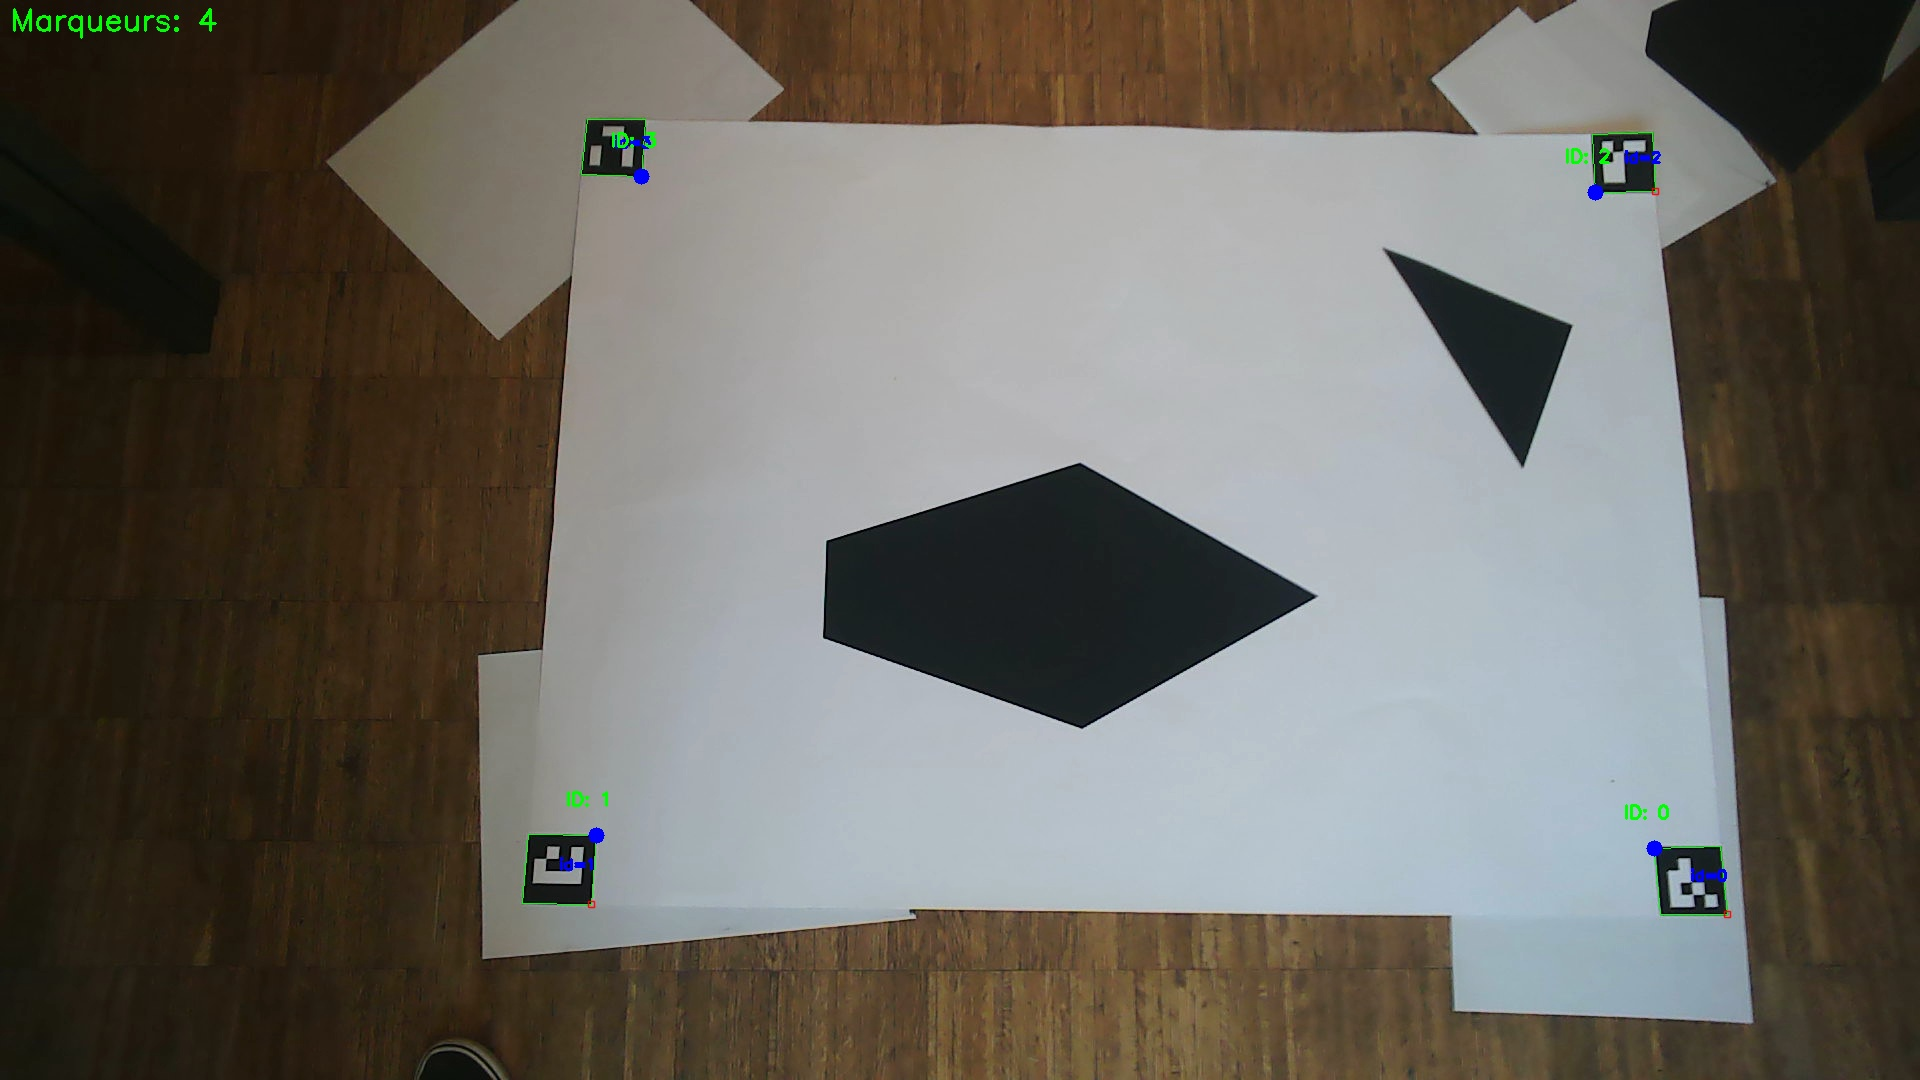
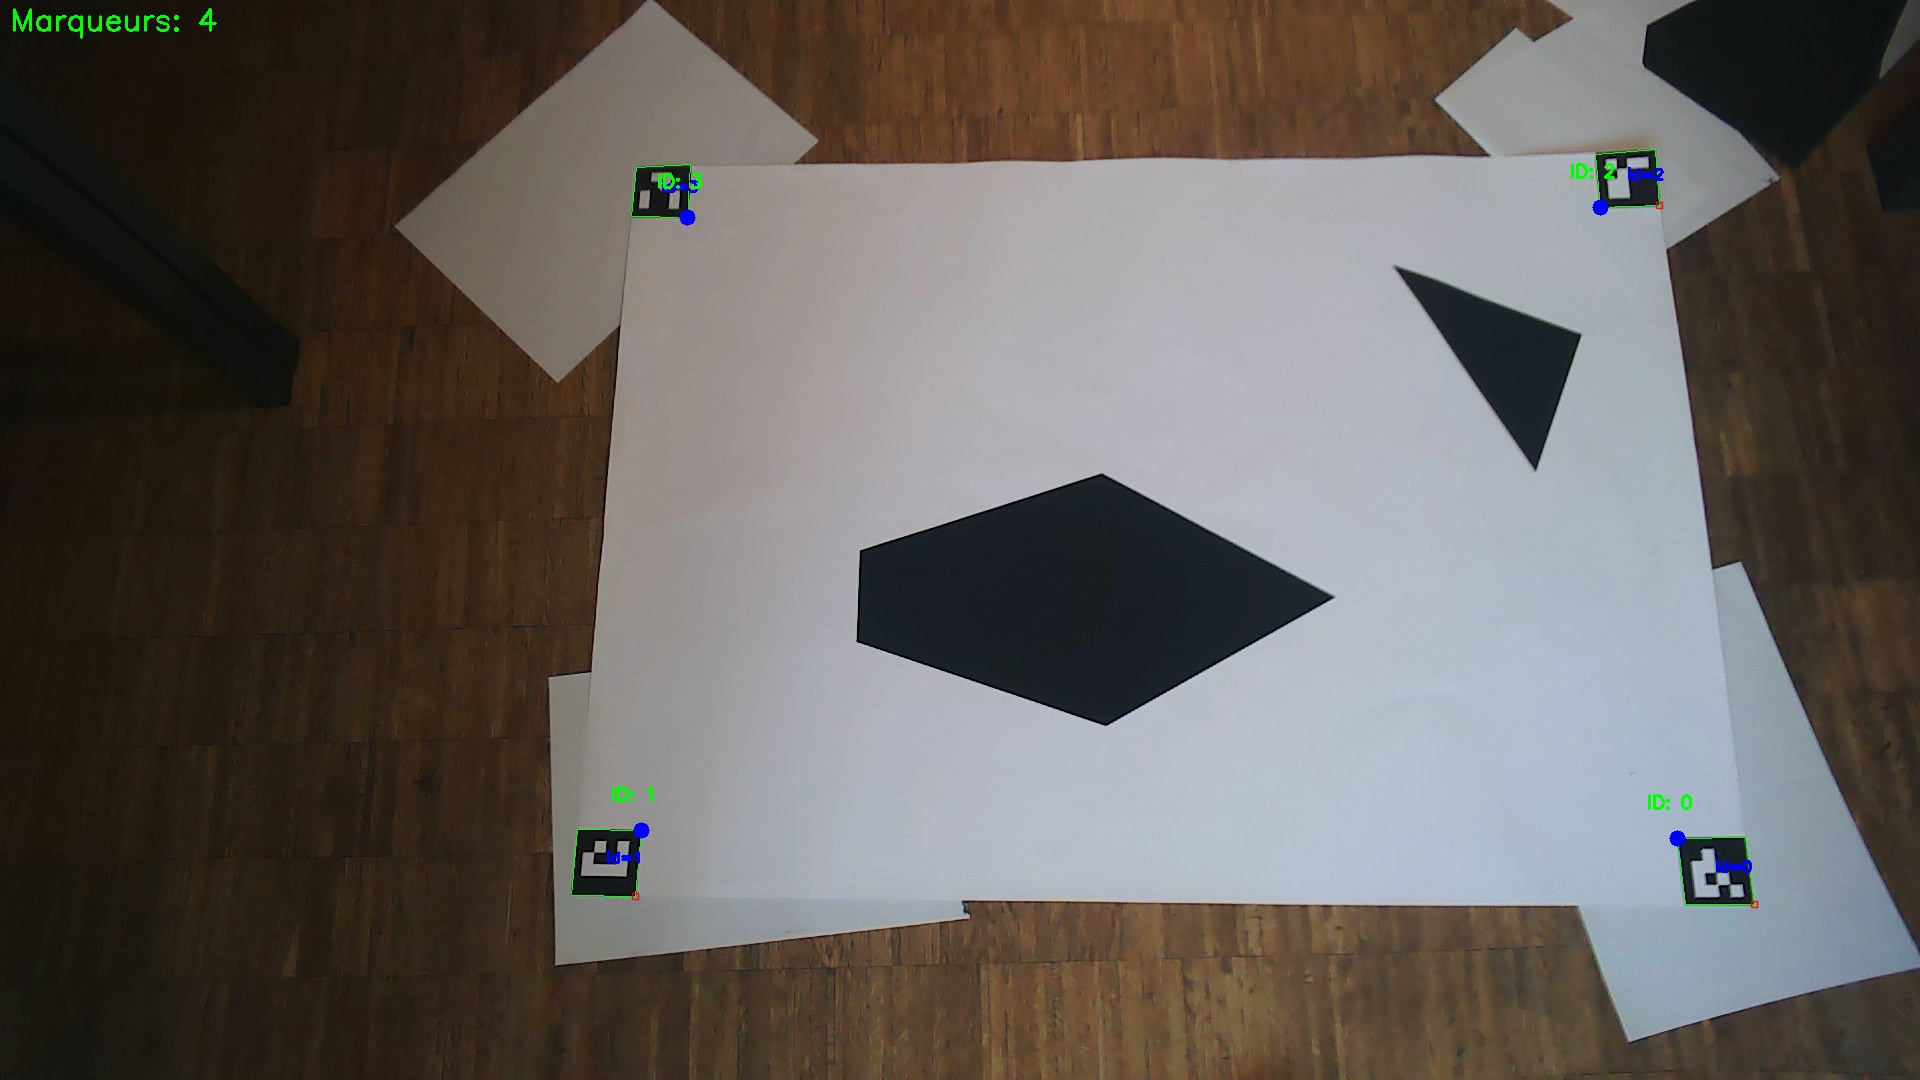
modif cte

diff --git a/src/constants.py b/src/constants.py
@@ -30,8 +30,8 @@ SPEED_MOVE_UNCERT_R = 0.53  #[ (mm/s)² ] uncertainty in right wheel speed (movm
 X_MEAS_UNCERT = 0.349  #[mm²] uncertainty in x direction from camera (measurement noise)
 Y_MEAS_UNCERT = 0.349  #[mm²] uncertainty in y direction from camera (measurement noise)
 THETA_MEAS_UNCERT = 0.027  #[rad²] uncertainty in theta from camera (measurement noise)
-SPEED_MES_UNCERT_L = 3.46  #[ (mm/s)² ] uncertainty in left wheel speed measurement
-SPEED_MES_UNCERT_R = 5.05  #[ (mm/s)² ] uncertainty in right wheel speed measurement
+SPEED_MES_UNCERT_L = 0.56  #[ (mm/s)² ] uncertainty in left wheel speed measurement
+SPEED_MES_UNCERT_R = 0.55  #[ (mm/s)² ] uncertainty in right wheel speed measurement
 
 # ======================================
 # Global Nav
